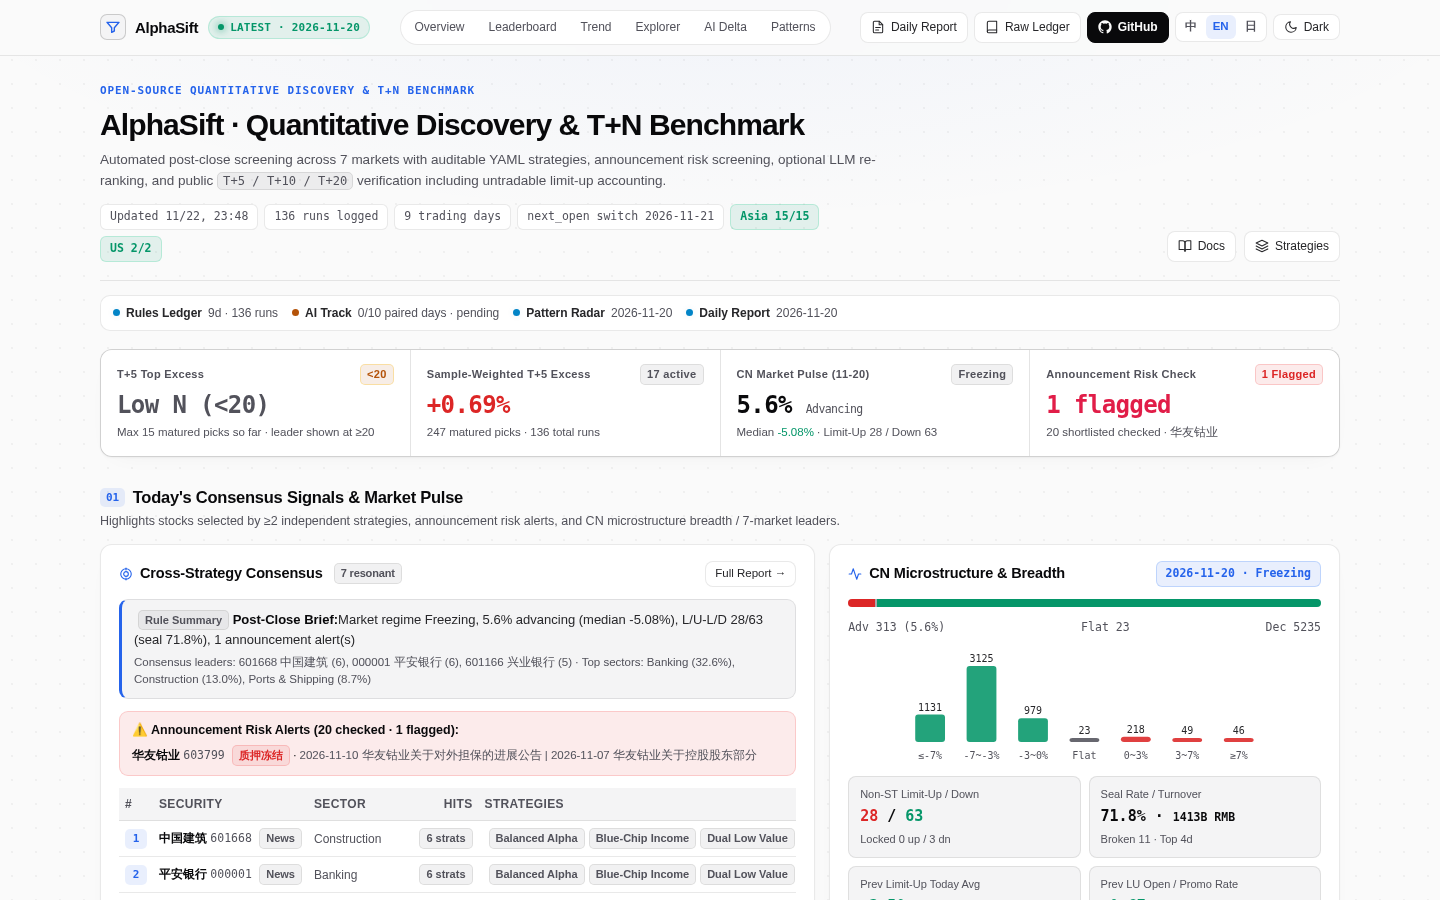
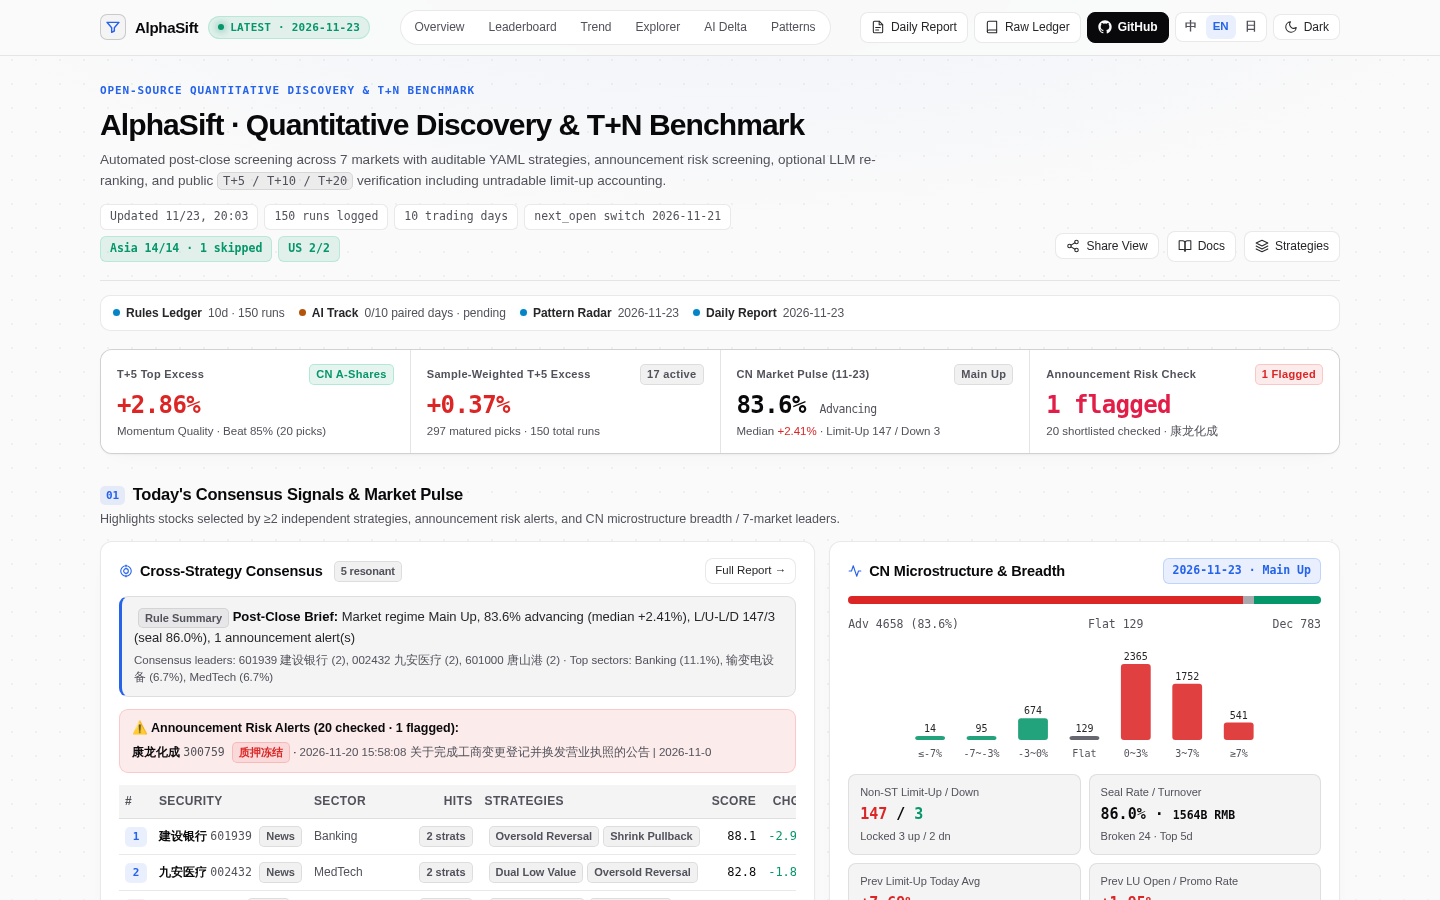
chore(release): bump to v0.3.1, refresh 2026-11-23 live visuals, and update launch kit

diff --git a/alphasift/__init__.py b/alphasift/__init__.py
@@ -1,7 +1,7 @@
 # -*- coding: utf-8 -*-
 """alphasift — 自动选股 Skill"""
 
-__version__ = "0.3.0"
+__version__ = "0.3.1"
 
 from alphasift.pipeline import screen
 from alphasift.evaluate import evaluate_saved_run, evaluate_saved_runs

diff --git a/docs/promotion-playbook.md b/docs/promotion-playbook.md
@@ -2,7 +2,7 @@
 
 - **Repo**: [https://github.com/ZhuLinsen/alphasift](https://github.com/ZhuLinsen/alphasift)
 - **Live Benchmark**: [https://alphasift.zhulinsen.tech/](https://alphasift.zhulinsen.tech/)
-- **Baseline Snapshot（2026-11-23）**：`540★` · `254 Forks` · `7 Watchers` · `v0.3.0` 已发布 · `620+ pytest tests`；14 天内 `2,523` views / `1,180` unique visitors、`6,450` clones / `1,880` unique cloners；对比同作者生态 `ZhuLinsen/daily_stock_analysis`（`73.7k★`）与 `ZhuLinsen/alphaevo`（`235★`）仍有显著漏斗放大空间。
+- **Baseline Snapshot（2026-11-23）**：`547★` · `256 Forks` · `7 Watchers` · `v0.3.1` 已发布 · `655+ pytest tests` · **`T+5` 样本池已解锁（`2026-11-23` 榜单 `momentum_quality` `+2.86%` 净超额 / `85%` 胜率, `n=20`）**；14 天内 `2,523` views / `1,180` unique visitors、`6,450` clones / `1,880` unique cloners；对比同作者生态 `ZhuLinsen/daily_stock_analysis`（`73.7k★`）与 `ZhuLinsen/alphaevo`（`235★`）仍有显著漏斗放大空间。
 - **线上 SEO 与埋点基建**：已上线 `social-preview.png`（1280×640）、`robots.txt`、`sitemap.xml`、`SoftwareApplication` JSON-LD、Atom 1.0 `site/feed.xml` 及可选零 Cookie Cloudflare Web Analytics（`CF_WEB_ANALYTICS_TOKEN`）。各渠道宣传统一附带 `?utm_source=<channel>` 参数便于归因。
 
 ---
@@ -80,13 +80,13 @@ Factors discovered cleanly in `AlphaEvo` can be promoted into deterministic YAML
 
 ### 3.1 LINUX DO 发帖终稿（`/开发调优` 或 `/开源分享`）
 
-- **标题**：`【开源】AlphaSift v0.3.0：形态雷达 + AI 多市场选股引擎，带可审计 T+N 策略跟踪曲线（零成本 Actions + 原生 MCP）`
+- **标题**：`【开源】AlphaSift v0.3.1：形态雷达 + Walk-Forward 情绪门控 + T+5 (+2.86%/85% 胜率) 公开跟踪榜（零成本 Actions + 原生 MCP）`
 - **链接（带归因）**：`https://alphasift.zhulinsen.tech/?lang=zh&utm_source=linuxdo` · `https://github.com/ZhuLinsen/alphasift`
 - **配图顺序**：`docs/assets/dashboard-preview.gif`（或 `promo-card-1-overview.png`）→ `docs/assets/dashboard-zh.png` → `docs/assets/daily-report.png`
 - **正文终稿**：
 
 ```markdown
-继 `daily_stock_analysis` 之后，顺手把“全市场初筛 + 形态实证 + 公开事后账本”这段独立开源成了 **AlphaSift（v0.3.0）**。
+继 `daily_stock_analysis` 之后，顺手把“全市场初筛 + Walk-Forward 情绪门控形态实证 + 公开事后账本”这段独立开源成了 **AlphaSift（v0.3.1）**。今天（2026-11-23）公开看板刚解锁首个达到 20 笔以上的 **`T+5` 榜单**：`momentum_quality`（趋势质量）净超额 **`+2.86%` / `85%` 胜率**（全策略加权 `+0.37%` / 297 股次 / 150 次运行）。
 
 起因很简单：做单只股票的 AI 深度分析已经有很多方案了，但每天收盘后面对 A 股 5,000+ 只标的，“先看哪几只”一直缺少一个**透明、无 API Key 也能跑、并且敢把每天选出来的结果按同一口径持续核算 T+5/10/20 胜率**的上游筛选器。
 
@@ -102,9 +102,9 @@ Factors discovered cleanly in `AlphaEvo` can be promoted into deterministic YAML
    - 内置 9 套无状态 K 线形态（红三兵、红三兵回踩确认、箱体突破等），结合私有 250 日离线日线包做样本外回放，必须同时过 25bp 成本扣除、Bartlett HAC t>=2.0、BH-FDR 多重检验校正及前后半样本稳定性门槛才会标为 `active`（当前阶段严苛门槛下 9 套全诚实标为 `experimental` 观察期，绝不强行美化）。
    - 所有线上跟踪统一按次日开盘价 **`next_open`** 计价，并单独剔除、标注**开盘一字涨停无法成交**的样本，拒绝用信号日收盘价算纸面富贵。
 3. **30 秒本地跑通 / 原生接入 Claude Code & Cursor MCP**
-   - 直接安装 `v0.3.0` Wheel 或源码安装：
+   - 直接安装 `v0.3.1` Wheel 或源码安装：
      ```bash
-     pip install https://github.com/ZhuLinsen/alphasift/releases/download/v0.3.0/alphasift-0.3.0-py3-none-any.whl
+     pip install https://github.com/ZhuLinsen/alphasift/releases/download/v0.3.1/alphasift-0.3.1-py3-none-any.whl
      alphasift quickstart                          # 无 Key 30 秒看全链路结果
      alphasift screen dual_low --no-llm            # 纯规则 A 股双低选股
      alphasift serve --host 127.0.0.1 --port 8765  # 本机离线安全 Web 工作台 (/ui)
@@ -159,11 +159,11 @@ Factors discovered cleanly in `AlphaEvo` can be promoted into deterministic YAML
 
 ---
 
-### 3.3 V2EX `/go/share` 终稿（配合 v0.3.0 发布）
+### 3.3 V2EX `/go/share` 终稿（配合 v0.3.1 发布）
 
-- **Title**: `开源了一个可验证的 7 市场量化初筛与 T+N 公开账本引擎 AlphaSift v0.3.0（支持原生 MCP / 本地 Web UI / 形态雷达）`
+- **Title**: `开源了一个可验证的 7 市场量化初筛与 T+N 公开账本引擎 AlphaSift v0.3.1（刚解锁 T+5 +2.86% 实时榜单 / 原生 MCP / Walk-Forward 情绪门控）`
 - **Url**: `https://alphasift.zhulinsen.tech/?lang=zh&utm_source=v2ex`
-- **要点**：重点写清楚“上次分享后完善了 v0.3.0 闭环”——新增 A 股全市场 250 日离线日线包、9 套形态雷达（FDR + HAC 检验下全部诚实标观察期）、规则 vs AI 同日配对赛道、`next_open` 涨停不可成交核算、独立可打印盘后 HTML 日报、10 工具零依赖 STDIO MCP 与本地 `/ui` 工作台。附 `promo-card-1-overview.png` + `dashboard-preview.gif`。
+- **要点**：重点写清楚“上次分享后完善了 v0.3.1 闭环”——新增 A 股全市场 250 日离线日线包与 `walk_forward_regime_audit` 零前视 H1→H2 情绪门控校验、9 套形态雷达（FDR + HAC 检验下全部诚实标观察期）、`T+5` 榜单首个达成 `n>=20` 解锁（`momentum_quality` `+2.86% / 85% 胜率`）、`next_open` 涨停不可成交核算、独立可打印盘后 HTML 日报、10 工具零依赖 STDIO MCP 与本地 `/ui` 工作台。附 `promo-card-1-overview.png` + `dashboard-preview.gif`。
 
 ---
 
@@ -175,12 +175,12 @@ Factors discovered cleanly in `AlphaEvo` can be promoted into deterministic YAML
 
 > Hey HN — author here. I built **AlphaSift** after getting frustrated with two common failure modes in "AI stock picking" tools: (1) backtests that silently book paper profits on untradable limit-up opens, and (2) LLM agents overriding bad financial filings just because a stock is famous.
 >
-> Key design choices in AlphaSift v0.3.0:
+> Key design choices in AlphaSift v0.3.1:
 > - **Deterministic L1/L2 base**: 12 auditable YAML strategies across 7 markets (CN/HK/US/JP/KR/TW/IN) with piecewise-linear quantile scoring and orthogonal sector caps (`hard_cap`).
-> - **Code-enforced LLM guardrails**: optional L2 re-ranking runs via a zero-SDK `requests` OpenAI/Gemini client (works with OpenAI, Gemini, DeepSeek, Ollama), but adverse filings cap LLM score at `35.0` in Python—not just in a prompt—and omitted picks never keep stale scores.
-> - **Empirical 250D pattern radar (no cherry-picking)**: 9 stateless pattern detectors must pass 25bp round-trip costs, Bartlett HAC `t >= 2.0`, Benjamini-Hochberg FDR `q <= 0.05`, and H1/H2 subsample stability before leaving `experimental` status (today all 9 are honestly marked `experimental`).
-> - **Paired attribution**: CN sessions are architected to log both deterministic `rules` and `ai` tracks side-by-side so anyone can measure whether AI adds excess return over rules (`T+5 / T+10 / T+20` vs index benchmark at `next_open`).
-> - **MCP + Local Workbench**: `alphasift mcp` speaks zero-dependency STDIO JSON-RPC 2.0 (10 tools, 2 resources; read-only without outbound pushes); `alphasift serve --port 8765` launches an offline-safe local Web UI at `/ui`. Install directly via the v0.3.0 release wheel or `pip install -e .`.
+> - **Code-enforced LLM guardrails**: optional L2 re-ranking runs via a zero-SDK `requests` OpenAI/Gemini client (works with OpenAI, Gemini, DeepSeek, Ollama), but adverse filings cap LLM score at `35.0` in Python—not just in a prompt—and omitted picks never keep stale scores (flagged `1` live case on `2026-11-23`).
+> - **Empirical 250D pattern radar & Walk-Forward regime gate (no cherry-picking)**: 9 stateless pattern detectors must pass 25bp round-trip costs, Bartlett HAC `t >= 2.0`, Benjamini-Hochberg FDR `q <= 0.05`, H1/H2 subsample stability, and zero-snooping H1→H2 regime selection (`--allowed-regimes` / `--exclude-regimes`) before leaving `experimental` status (today all 9 are honestly marked `experimental`).
+> - **Paired attribution & unlocked T+5 milestone**: CN sessions log `rules` and `ai` tracks side-by-side (`next_open` entry); first `n >= 20` cohort unlocked `2026-11-23` with `momentum_quality` at `+2.86%` net excess / `85%` beat rate across `150` runs.
+> - **MCP + Local Workbench**: `alphasift mcp` speaks zero-dependency STDIO JSON-RPC 2.0 (10 tools, 2 resources; read-only without outbound pushes); `alphasift serve --port 8765` launches an offline-safe local Web UI at `/ui`. Install directly via the v0.3.1 release wheel or `pip install -e .`.
 >
 > Live verifiable ledger: https://alphasift.zhulinsen.tech/?lang=en&utm_source=hn
 > Happy to answer questions on `next_open` entry timing and limit-up accounting, FDR/HAC pattern graduation, or MCP safety boundaries!
@@ -202,7 +202,7 @@ Factors discovered cleanly in `AlphaEvo` can be promoted into deterministic YAML
 
 ### 3.6 X / Twitter 6-Post Thread（已验证 `t.co` 为站外第一流量引擎）
 
-1. **1/6 (Hook + `promo-card-1-overview.png`)**: Most AI stock tools fail at two basic engineering checks: booking fake gains on untradable limit-up opens, and letting LLM vibes override regulatory probe filings. Introducing **AlphaSift v0.3.0** (Apache-2.0): 7 markets, 12 YAML strategies, 9 FDR-checked patterns, zero-SDK MCP, and a public `T+5/10/20` ledger.
+1. **1/6 (Hook + `promo-card-1-overview.png`)**: Most AI stock tools fail at two basic engineering checks: booking fake gains on untradable limit-up opens, and letting LLM vibes override regulatory probe filings. Introducing **AlphaSift v0.3.1** (Apache-2.0): 7 markets, 12 YAML strategies, 9 FDR + Walk-Forward checked patterns, zero-SDK MCP, and a live `T+5` ledger just unlocked at `+2.86%` / `85%` beat rate (`n=20`).
 2. **2/6 (`dashboard-dark.png`)**: Every session logs real picks publicly (`https://alphasift.zhulinsen.tech/?lang=en&utm_source=x`). No cherry-picked screenshots: `next_open` entry pricing, matched index benchmarks (CSI 300 / S&P 500 / Nikkei / Hang Seng), and explicit `untradable_limit_up` tracking.
 3. **3/6 (`promo-card-3-benchmark.png`)**: We refuse to overfit: our 250-day pattern radar requires beating both CSI 300 & All-A equal-weight after 25bp costs, plus Bartlett HAC `t >= 2.0`, BH-FDR `q <= 0.05`, and H1/H2 stability — so today all 9 detectors stay honestly flagged `experimental`.
 4. **4/6**: Why prompts alone aren't safety: in AlphaSift, adverse regulatory/delisting/stake-sale keywords are capped at `35.0` in Python (`_LLM_RED_FLAG_MAX_SCORE`), with negated-phrase filtering (`"无立案调查"`). Zero `litellm` bloat—just clean `requests` + key redaction.

diff --git a/README.ja.md b/README.ja.md
@@ -105,11 +105,11 @@
 
 ### 2. ローカル CLI・Web Workbench (`/ui`)・Docker
 
-[`v0.3.0` Release](https://github.com/ZhuLinsen/alphasift/releases/tag/v0.3.0) から wheel を直接導入するか、リポジトリから開発インストールできます：
+[`v0.3.1` Release](https://github.com/ZhuLinsen/alphasift/releases/tag/v0.3.1) から wheel を直接導入するか、リポジトリから開発インストールできます：
 
 ```bash
-# 方法 A：v0.3.0 Release Wheel を直接インストール
-pip install https://github.com/ZhuLinsen/alphasift/releases/download/v0.3.0/alphasift-0.3.0-py3-none-any.whl
+# 方法 A：v0.3.1 Release Wheel を直接インストール
+pip install https://github.com/ZhuLinsen/alphasift/releases/download/v0.3.1/alphasift-0.3.1-py3-none-any.whl
 
 # 方法 B：ソースコードからインストール
 git clone https://github.com/ZhuLinsen/alphasift.git && cd alphasift
@@ -266,7 +266,7 @@ NOTIFY_URLS="pushplus://TOKEN,sct://SENDKEY,bark://api.day.app/KEY,mailto://send
 
 > 本プロジェクトは学習・調査・エンジニアリング検証を目的としており、投資助言や売買推奨を行うものではありません。
 
-[使い方](docs/usage.md) · [設定](docs/configuration.md) · [エコシステム＆MCP](docs/ecosystem.md) · [デプロイガイド](docs/deployment.md) · [戦略ガイド](docs/strategy-guide.md) · [スコアリング](docs/scoring.md) · [出力スキーマ](docs/result-schema.md) · [リファレンス](docs/reference.md) · [コントリビュート](CONTRIBUTING.md) · [セキュリティ](SECURITY.md) · [変更履歴](docs/CHANGELOG.md) · [SKILL.md](SKILL.md)
+[使い方](docs/usage.md) · [設定](docs/configuration.md) · [レジーム実証研究](docs/pattern-regime-research.md) · [エコシステム＆MCP](docs/ecosystem.md) · [デプロイガイド](docs/deployment.md) · [戦略ガイド](docs/strategy-guide.md) · [スコアリング](docs/scoring.md) · [出力スキーマ](docs/result-schema.md) · [リファレンス](docs/reference.md) · [コントリビュート](CONTRIBUTING.md) · [セキュリティ](SECURITY.md) · [変更履歴](docs/CHANGELOG.md) · [SKILL.md](SKILL.md)
 
 [Apache License 2.0](LICENSE) の下で公開されています。
 

diff --git a/README.en.md b/README.en.md
@@ -105,11 +105,11 @@ Register the zero-dependency read-only MCP server (`10` tools, `2` resources; ru
 
 ### 2. Local CLI, Interactive Web Workbench (`/ui`) & Docker
 
-Install from the [`v0.3.0` Release wheel](https://github.com/ZhuLinsen/alphasift/releases/tag/v0.3.0) or editable source checkout:
+Install from the [`v0.3.1` Release wheel](https://github.com/ZhuLinsen/alphasift/releases/tag/v0.3.1) or editable source checkout:
 
 ```bash
-# Option A: Direct v0.3.0 Release Wheel
-pip install https://github.com/ZhuLinsen/alphasift/releases/download/v0.3.0/alphasift-0.3.0-py3-none-any.whl
+# Option A: Direct v0.3.1 Release Wheel
+pip install https://github.com/ZhuLinsen/alphasift/releases/download/v0.3.1/alphasift-0.3.1-py3-none-any.whl
 
 # Option B: Editable source install
 git clone https://github.com/ZhuLinsen/alphasift.git && cd alphasift
@@ -267,7 +267,7 @@ See [docs/ecosystem.md](docs/ecosystem.md) for MCP tool schemas and Docker detai
 
 > This repository is built purely for research, engineering verification, and educational experiments — never investment advice or buy/sell recommendations. Market data, LLM rankings, and pattern signals can be incomplete or delayed.
 
-[Usage](docs/usage.md) · [Configuration](docs/configuration.md) · [Ecosystem & MCP](docs/ecosystem.md) · [Deployment & Mirror](docs/deployment.md) · [Strategy Guide](docs/strategy-guide.md) · [Scoring](docs/scoring.md) · [Result Schema](docs/result-schema.md) · [Reference](docs/reference.md) · [Contributing](CONTRIBUTING.md) · [Security](SECURITY.md) · [Changelog](docs/CHANGELOG.md) · [SKILL.md](SKILL.md)
+[Usage](docs/usage.md) · [Configuration](docs/configuration.md) · [Regime Research](docs/pattern-regime-research.md) · [Ecosystem & MCP](docs/ecosystem.md) · [Deployment & Mirror](docs/deployment.md) · [Strategy Guide](docs/strategy-guide.md) · [Scoring](docs/scoring.md) · [Result Schema](docs/result-schema.md) · [Reference](docs/reference.md) · [Contributing](CONTRIBUTING.md) · [Security](SECURITY.md) · [Changelog](docs/CHANGELOG.md) · [SKILL.md](SKILL.md)
 
 Licensed under the [Apache License 2.0](LICENSE).
 

diff --git a/README.md b/README.md
@@ -105,11 +105,11 @@
 
 ### 2. 本机命令行、交互式 Web 工作台 & Docker
 
-可直接从 [`v0.3.0` Release](https://github.com/ZhuLinsen/alphasift/releases/tag/v0.3.0) 安装独立 wheel 包，或源码可编辑安装：
+可直接从 [`v0.3.1` Release](https://github.com/ZhuLinsen/alphasift/releases/tag/v0.3.1) 安装独立 wheel 包，或源码可编辑安装：
 
 ```bash
-# 方式 A：直接安装 v0.3.0 Release Wheel
-pip install https://github.com/ZhuLinsen/alphasift/releases/download/v0.3.0/alphasift-0.3.0-py3-none-any.whl
+# 方式 A：直接安装 v0.3.1 Release Wheel
+pip install https://github.com/ZhuLinsen/alphasift/releases/download/v0.3.1/alphasift-0.3.1-py3-none-any.whl
 
 # 方式 B：源码克隆安装
 git clone https://github.com/ZhuLinsen/alphasift.git && cd alphasift
@@ -269,7 +269,7 @@ NOTIFY_URLS="pushplus://TOKEN,sct://SENDKEY,bark://api.day.app/KEY,mailto://send
 
 > 本项目仅用于量化研究、开源工程验证与个人学习，不构成任何投资建议、收益承诺或买卖指令。行情源、大模型输出与形态统计均可能存在延迟或偏差。
 
-[使用指南](docs/usage.md) · [配置参考](docs/configuration.md) · [生态与 MCP](docs/ecosystem.md) · [部署与镜像](docs/deployment.md) · [策略指南](docs/strategy-guide.md) · [评分体系](docs/scoring.md) · [输出契约](docs/result-schema.md) · [参考资料](docs/reference.md) · [参与贡献](CONTRIBUTING.md) · [安全策略](SECURITY.md) · [更新记录](docs/CHANGELOG.md) · [SKILL.md](SKILL.md)
+[使用指南](docs/usage.md) · [配置参考](docs/configuration.md) · [情绪实证研究](docs/pattern-regime-research.md) · [生态与 MCP](docs/ecosystem.md) · [部署与镜像](docs/deployment.md) · [策略指南](docs/strategy-guide.md) · [评分体系](docs/scoring.md) · [输出契约](docs/result-schema.md) · [参考资料](docs/reference.md) · [参与贡献](CONTRIBUTING.md) · [安全策略](SECURITY.md) · [更新记录](docs/CHANGELOG.md) · [SKILL.md](SKILL.md)
 
 基于 [Apache License 2.0](LICENSE) 开源。
 

diff --git a/docs/CHANGELOG.md b/docs/CHANGELOG.md
@@ -1,5 +1,15 @@
 # Changelog
 
+## v0.3.1 (2026-11-23)
+
+- **Walk-Forward 市场情绪阶段门控与零前视审计（v0.4 研究基础）**：
+  - 在 `alphasift/pattern_replay.py` 中新增 `_summarize_walk_forward_regime_audit`（严格按前半段 `H1` 选正超额/剔除逆风阶段，固定投影到后半段 `H2` 进行零前视样本外对照，杜绝“看全样本事后挑阶段”）并写入 `site/patterns.json` 与 `render_replay_markdown`。
+  - `replay_patterns`、CLI（`alphasift patterns replay`）及 `scripts/replay_patterns.py` 新增 `--allowed-regimes` 与 `--exclude-regimes` 参数（支持阶段英文 key 与中文标签及输入校验）。
+  - 新增 250 日（5,577 只 A 股 / 180 有效日）情绪分化实证研究报告 [`docs/pattern-regime-research.md`](pattern-regime-research.md)。
+- **T+5 实证里程碑解锁与 LLM 鲁棒性加固**：
+  - 公开跟踪站 `2026-11-23` 正式解锁 `T+5 (n=20)`：`momentum_quality`（趋势质量）`+2.86%` 净超额 / `85%` 胜率领跑规则赛道。
+  - 默认 `LLM_MAX_TOKENS` 上调至 `4096`（上限 `8192`，不自动扩写），完善 OpenAI-compatible 兼容客户端与多策略去重鲁棒性，同步刷新 `2026-11-23` 看板与盘后日报可视化素材。
+
 ## v0.3.0 (2026-11-22)
 
 - **Issue #34 P1–P7 完整闭环与离线基准**：

diff --git a/docs/usage.md b/docs/usage.md
@@ -5,8 +5,8 @@
 ## 安装
 
 ```bash
-# 方式 A：直接安装 v0.3.0 Release Wheel
-pip install https://github.com/ZhuLinsen/alphasift/releases/download/v0.3.0/alphasift-0.3.0-py3-none-any.whl
+# 方式 A：直接安装 v0.3.1 Release Wheel
+pip install https://github.com/ZhuLinsen/alphasift/releases/download/v0.3.1/alphasift-0.3.1-py3-none-any.whl
 
 # 方式 B：源码克隆安装
 pip install -e .
